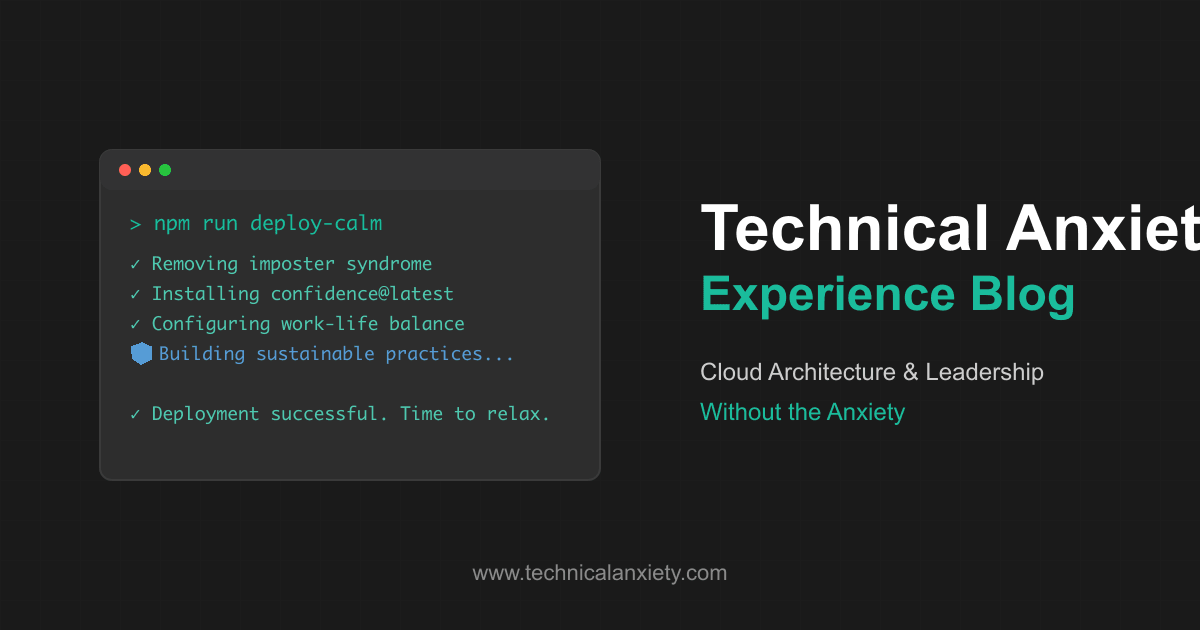
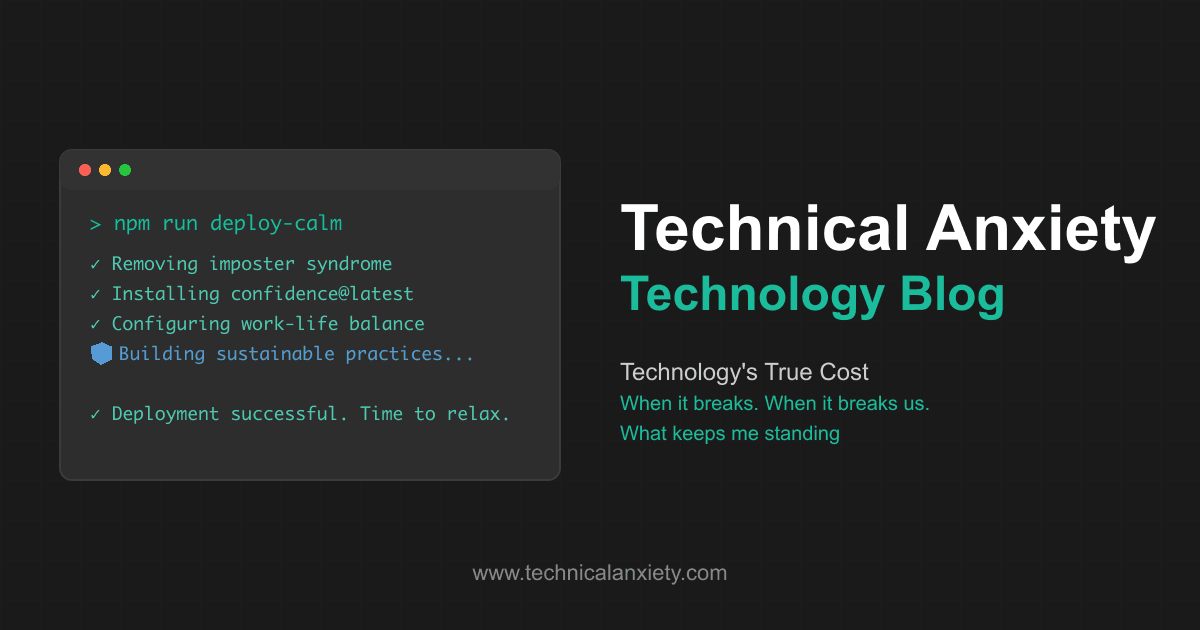
Update social share image and site branding
- Change 'Experience Blog' to 'Technology Blog'
- Update tagline to 'Technology's True Cost'
- Add new subtitle: 'When it breaks. When it breaks us. What keeps me standing'
- Move terminal and text left to prevent cutoff in social media previews
- Regenerate PNG and optimized versions
- Update site description to match new branding

diff --git a/src/config.ts b/src/config.ts
@@ -1,6 +1,6 @@
 export const siteConfig = {
-  title: 'Technical Anxiety | Experience Blog',
-  description: 'A technical blog covering Azure, Log Analytics, leadership, and navigating anxiety in tech.',
+  title: 'Technical Anxiety | Technology Blog',
+  description: 'A technology blog exploring the true cost of technology - when it breaks, when it breaks us, and what keeps me standing.',
   url: 'https://www.technicalanxiety.com',
   author: {
     name: 'Jason Rinehart',
